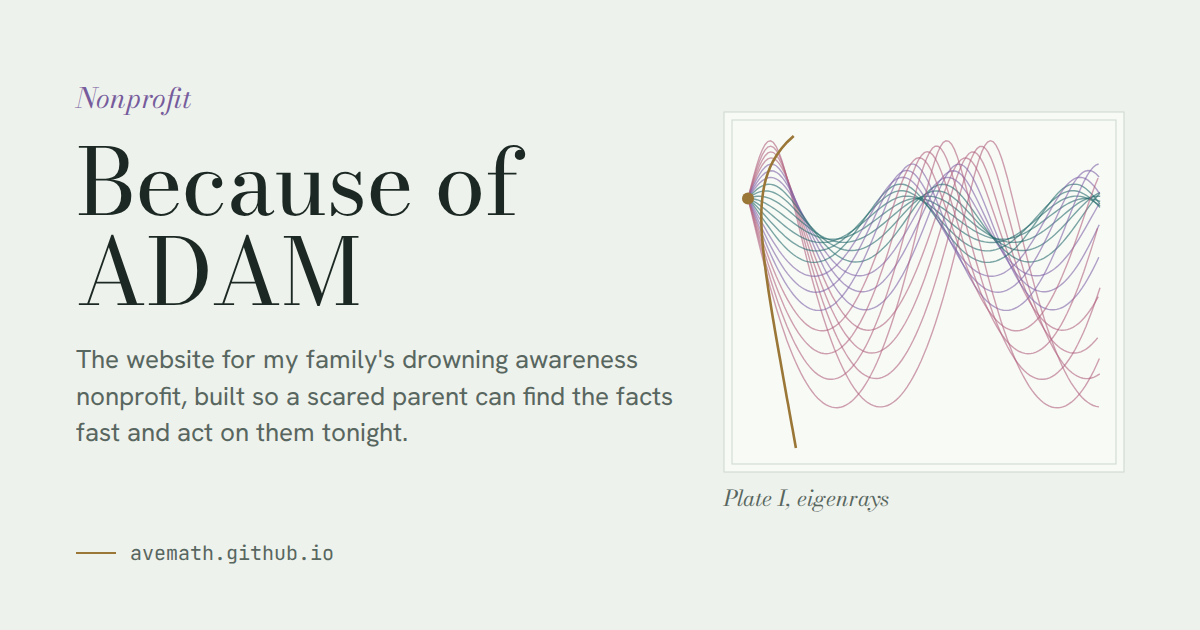
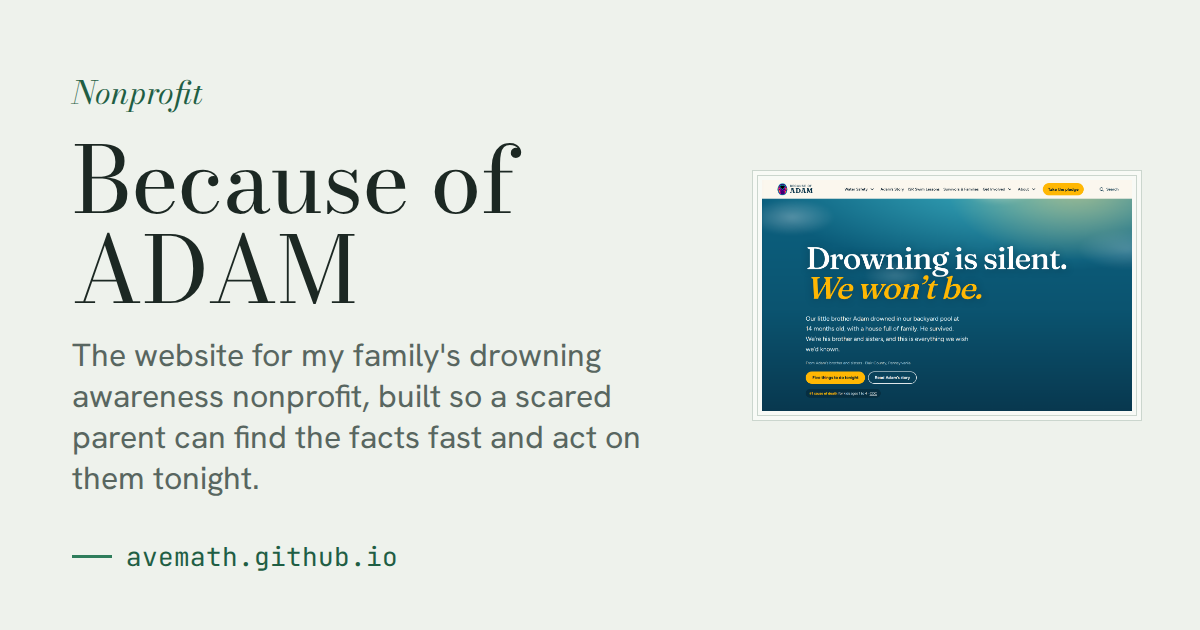
Social cards in green, each with its project's cover or drawing
Regenerated all 17 cards from the light theme tokens: green-strong for small text, green for the rule and the Plate I rays, no lilac or rose. Text is a step larger so it reads at LinkedIn's thumbnail size. Contact sheets are in docs/og/.

diff --git a/docs/DESIGN.md b/docs/DESIGN.md
@@ -29,6 +29,8 @@ Tokens live in `src/styles/tokens.css`, light first and dark under `[data-theme=
 
 Green is the accent for links, buttons, headings and focus; purple is no longer a UI accent. Prints and handwritten notes stay light in both themes (`--photo-ink`, `--note-*`). Outside CSS, `src/lib/theme.ts` (the two theme-color tags), `src/lib/tokens-client.ts` (canvases) and `scripts/render-assets.mjs` (favicon, social cards) read the tokens, so `npm run assets` follows any change.
 
+Social cards (`public/og/`, 1200x630) are light paper with green only: the eyebrow and the domain line in `--green-strong`, the rule in `--green`, the title in Bodoni, the description, and the project's cover or line drawing in a double-hairline frame (the home and Research cards keep Plate I, with green rays). `scripts/render-assets.mjs` makes them; `docs/og/contact-sheet.png` and `docs/og/thumbnails.png` (LinkedIn's 400x210 size) show them all.
+
 ### Surfaces
 
 Sections alternate paper, sheet and the deep band (`.band-paper`, `.band-sheet`, `.band-deep` in `global.css`) so no two neighbors share a background; the footer is always deep. `.band-deep` re-points the role tokens, so anything inside reads light on deep green. Plates on sheet sections get `--plate-shadow`. Every paper and sheet section and the home hero carry the faint contour texture (`public/topo.svg` from `scripts/gen-topo.mjs`, about 5%, tiled at one scale); with a fine pointer a soft glow brightens the lines under the cursor (`src/scripts/texture.ts`), and in dark mode a few plankton drift through the hero and the deep bands. The glow and the plankton are off with reduced motion. The Research teaser draws the same lines glowing over a still of the seafloor. Research panels are a muted, translucent surface that deepens with the dive (light `#e4f0e8` to `#d2dde6`, dark `#1b302a` to `#0f1a25`, at 90%) with the water blurred behind; inside them muted text is `#46534d` in light mode and `#a3b6ac` in dark, so it keeps AA over the darkest water.
